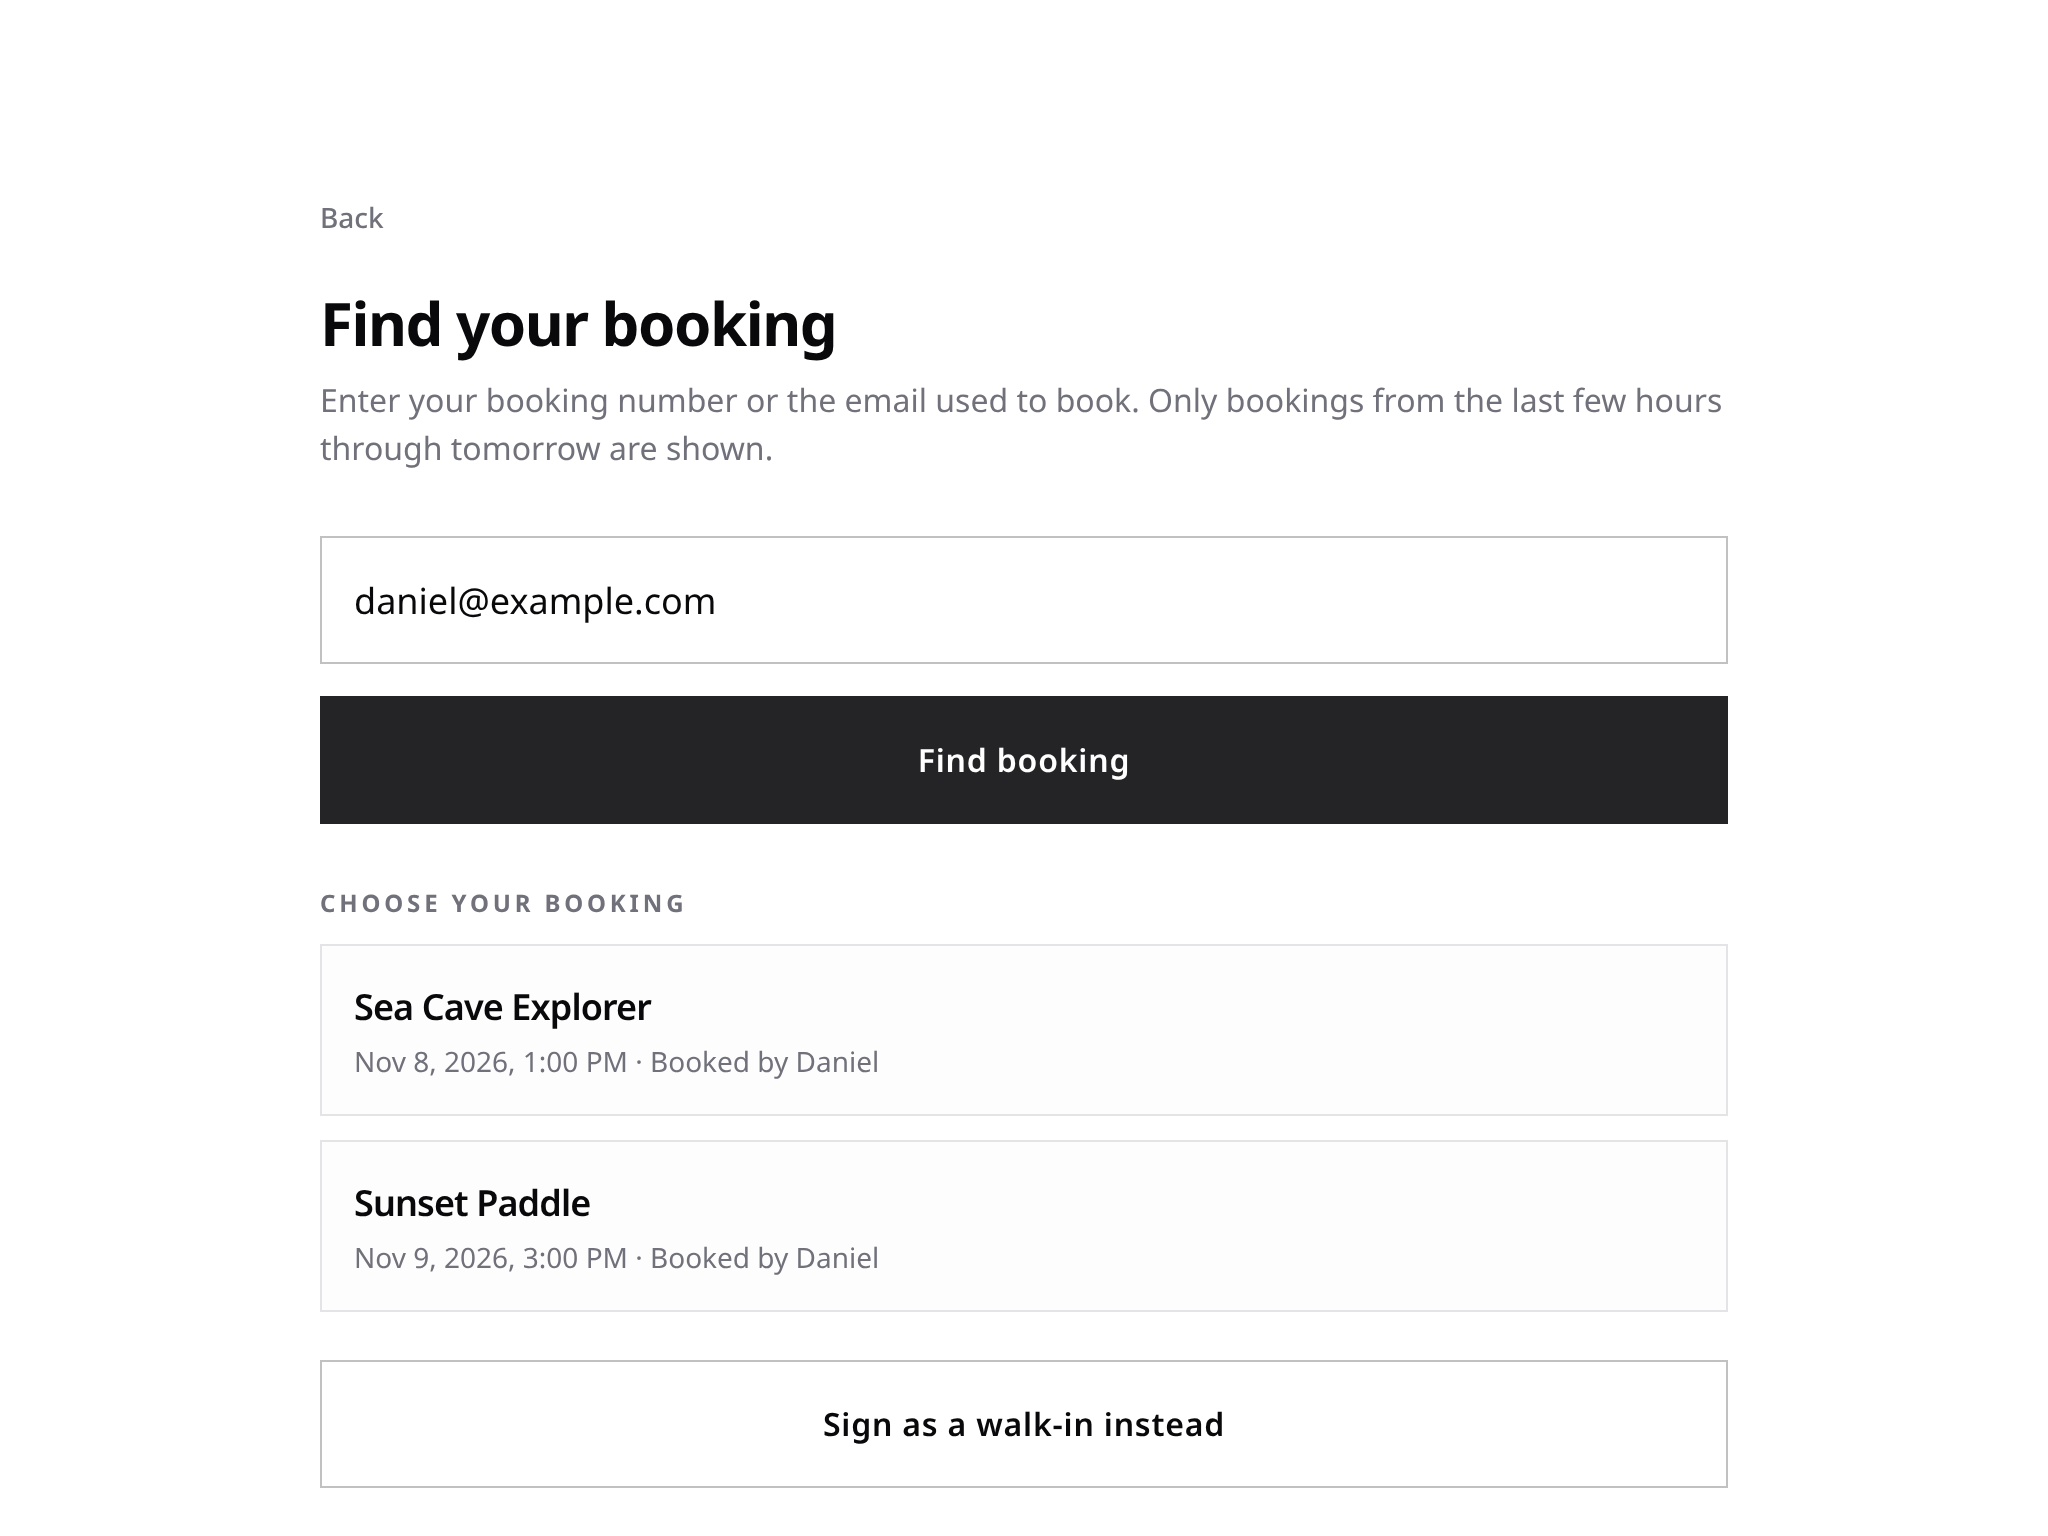
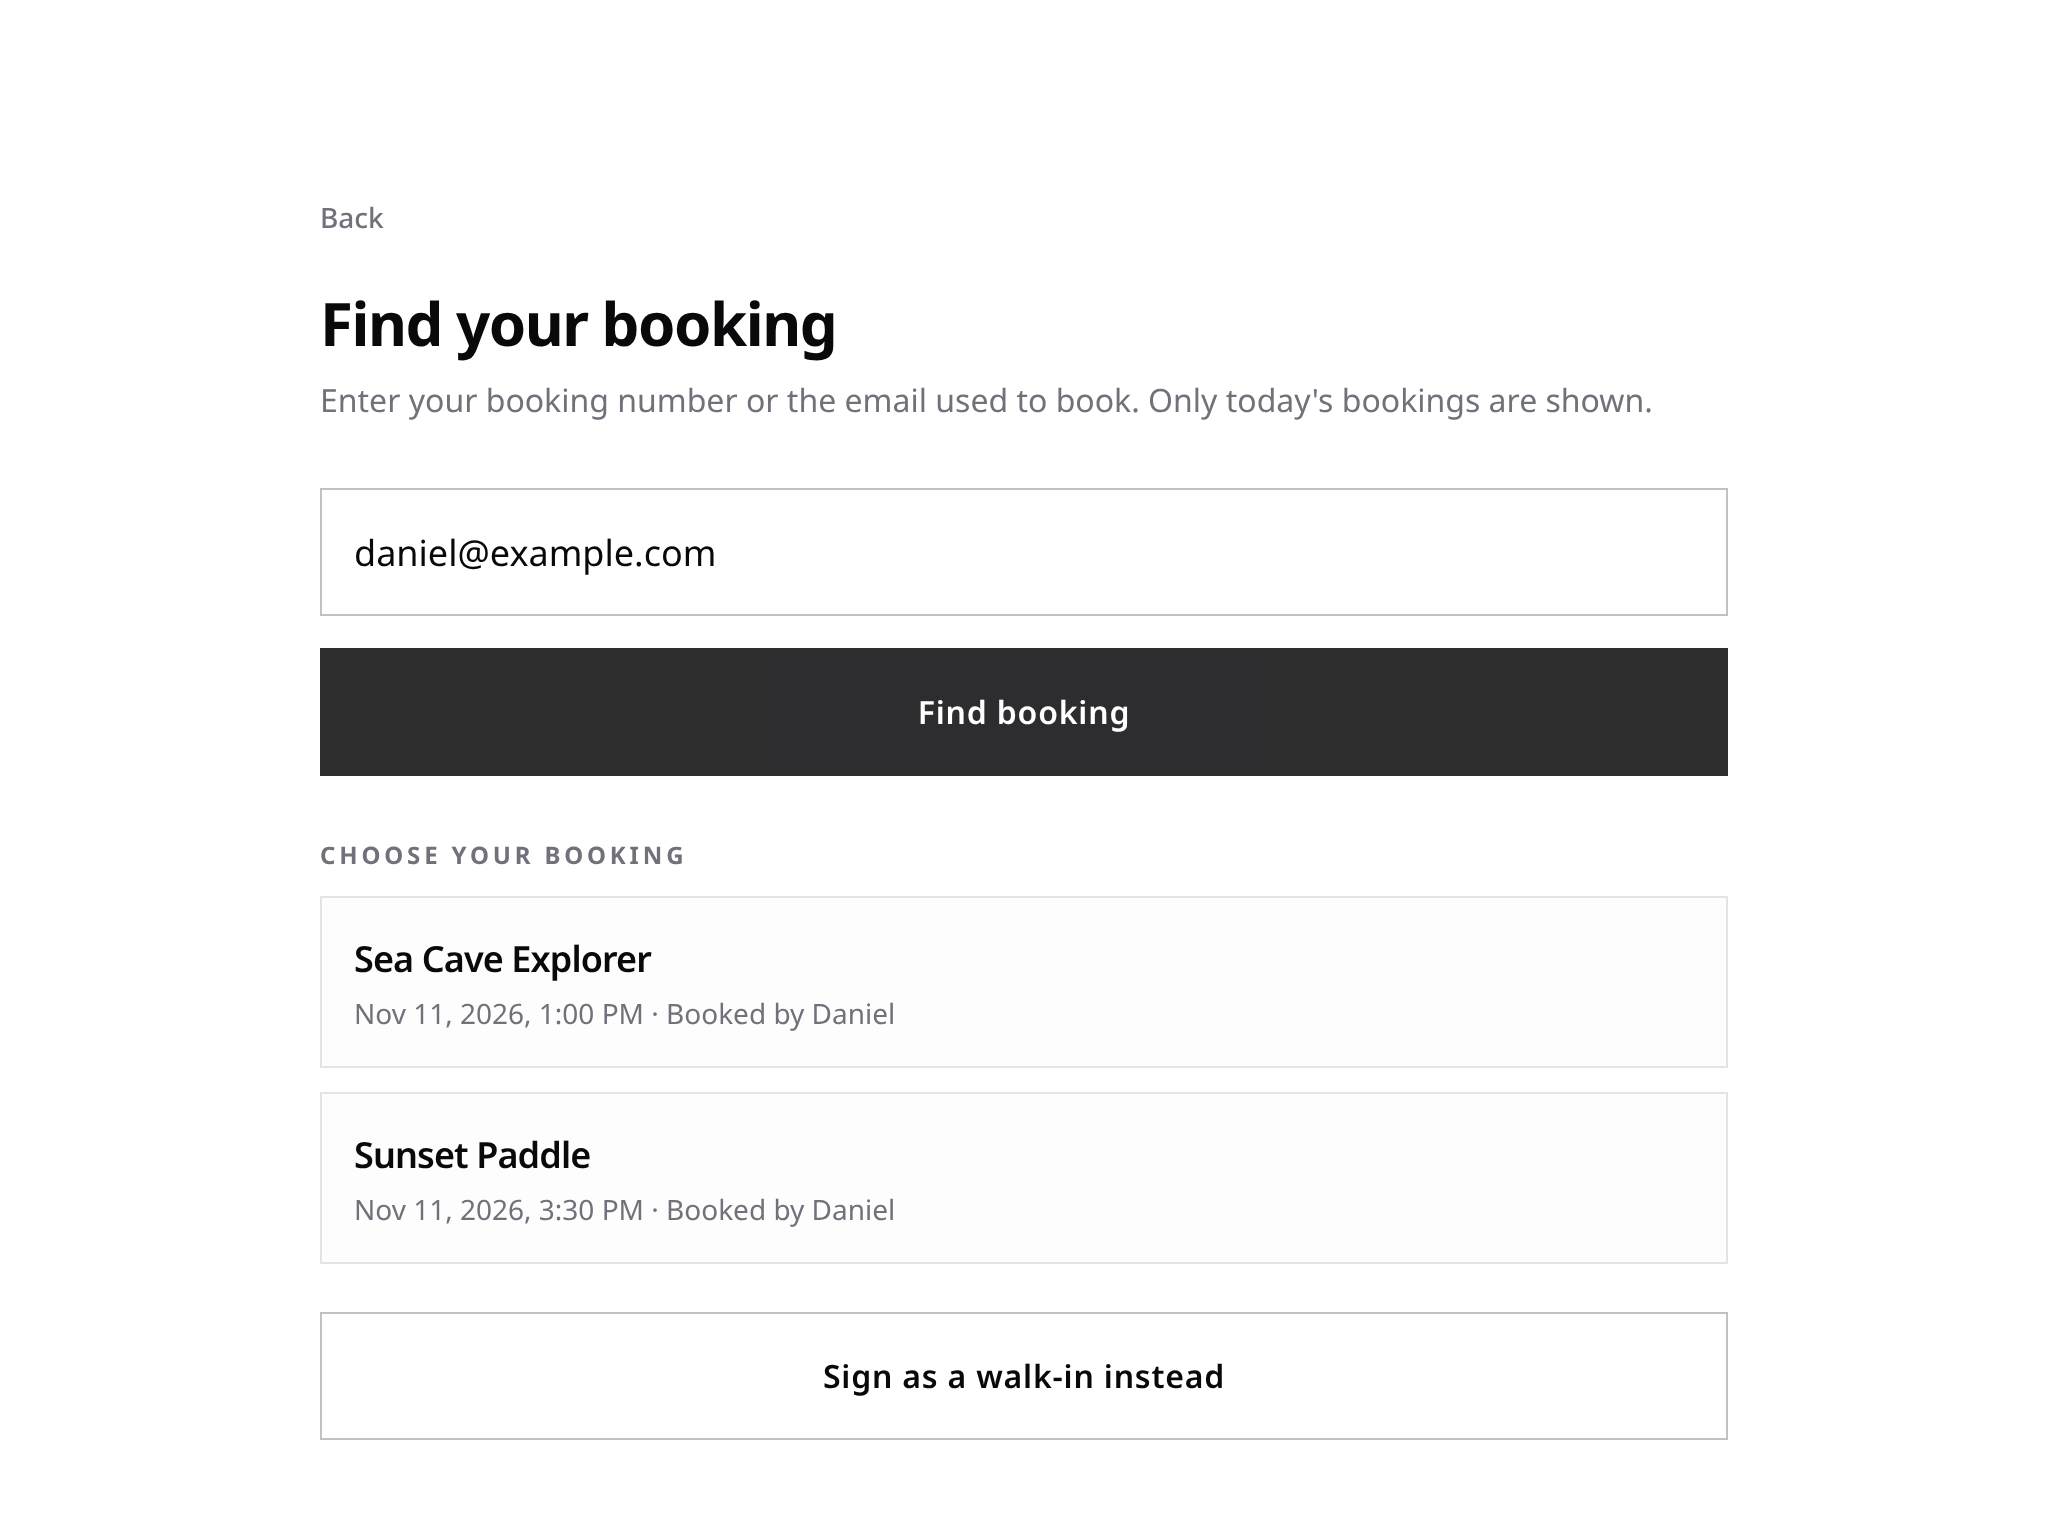
chore(kiosk): remove unused device revocation field, refresh lookup screenshot, document sample bookings
- Drop kiosk_devices.revokedAt: nothing writes it since the reset kiosk links action was removed.
- Remove the unreferenced kiosk-submitted.png screenshot.
- Retake the Find your booking screenshot so it only shows today's bookings, and show it before the QR step.
- Architecture docs: list submission_rosters and kiosk_devices, and explain the devSeed sample bookings.

Claude-Session: https://claude.ai/code/session_01NtaqKprKFQDQEyrmqYVPf6

diff --git a/src/convex/kiosk.ts b/src/convex/kiosk.ts
@@ -67,7 +67,7 @@ async function getActiveKioskDevice(
 		.query('kiosk_devices')
 		.withIndex('by_tokenHash', (q) => q.eq('tokenHash', tokenHash))
 		.unique();
-	if (!match || match.workspaceId !== workspaceId || match.revokedAt !== undefined) return null;
+	if (!match || match.workspaceId !== workspaceId) return null;
 	return match;
 }
 
@@ -237,8 +237,8 @@ export const lookupBookings = mutation({
 });
 
 /**
- * Creates a kiosk device link for the signed-in member. Each call makes a new device with its
- * own lookup budget; only the token's hash is stored, so the link is shown once.
+ * Registers a kiosk device for the signed-in member (used by Open kiosk mode on the Waiver page).
+ * Each call makes a new device with its own lookup budget. Only the token's hash is stored.
  */
 export const createKioskDevice = mutation({
 	args: { workspaceId: v.id('workspaces') },

diff --git a/src/convex/schema.ts b/src/convex/schema.ts
@@ -536,8 +536,7 @@ export default defineSchema({
 		tokenHash: v.string(),
 		createdByUserId: v.id('users'),
 		createdAt: v.number(),
-		lastUsedAt: v.optional(v.number()),
-		revokedAt: v.optional(v.number())
+		lastUsedAt: v.optional(v.number())
 	})
 		.index('by_workspaceId', ['workspaceId'])
 		.index('by_tokenHash', ['tokenHash'])
